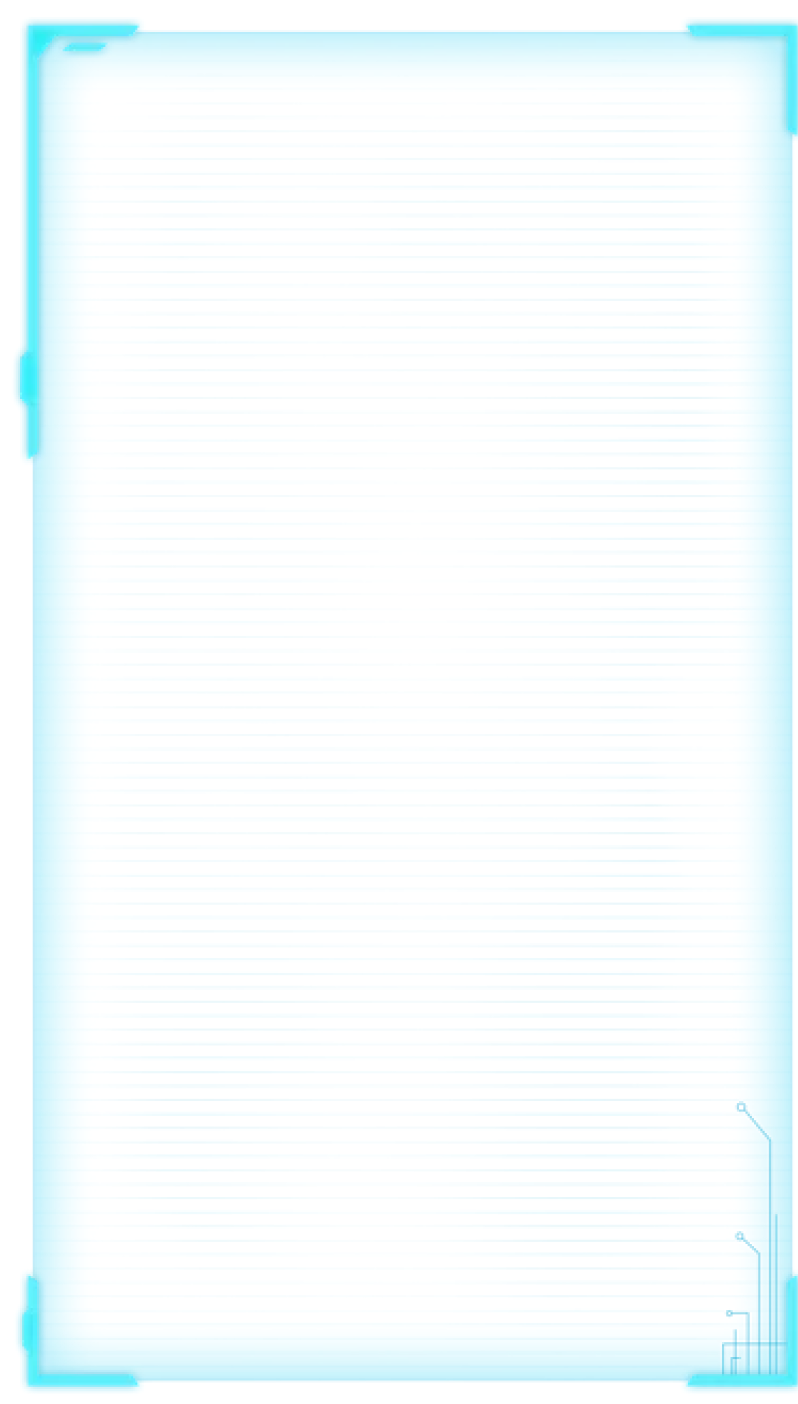
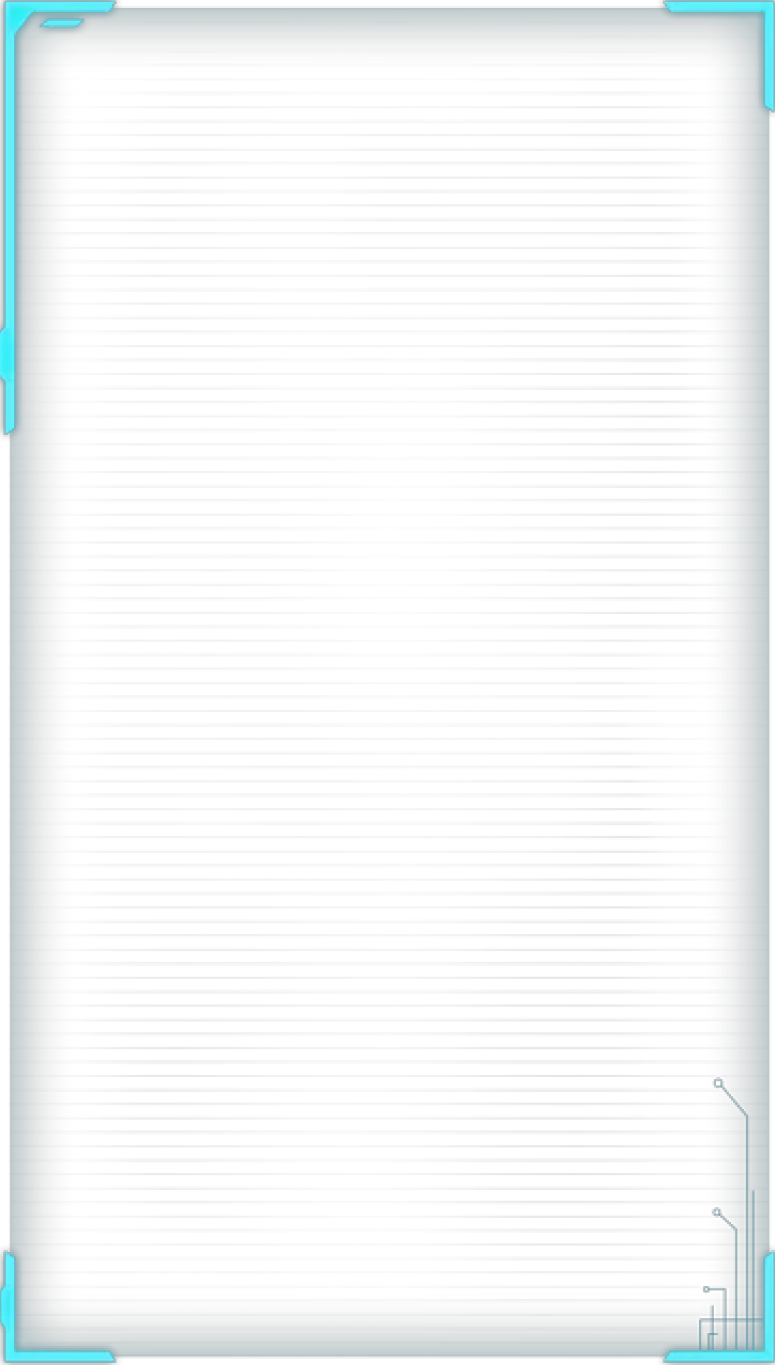
开发：背景图设置完成

Changed region(s): [[0.0, 0.0, 1.0, 1.0]]

diff --git a/src/components/mapView/MapRecommand.vue b/src/components/mapView/MapRecommand.vue
@@ -2,7 +2,7 @@
   <div class="map-recommand">
     <div class="content">
       <el-tabs type="border-card">
-        <el-tab-pane label="用户管理">用户管理</el-tab-pane>
+        <el-tab-pane label="用户管理">管理</el-tab-pane>
         <el-tab-pane label="配置管理">配置管理</el-tab-pane>
         <el-tab-pane label="角色管理">角色管理</el-tab-pane>
         <el-tab-pane label="定时任务补偿">定时任务补偿</el-tab-pane>
@@ -30,11 +30,14 @@ export default {
 .map-recommand {
   width: 35%;
   height: 100%;
-  background-color: rgb(18, 36, 70);
   .content {
-    padding: 10px;
+    padding: 30px;
     width: 100%;
     height: 100%;
+    background: rgb(18, 36, 70) url('~@/assets/images/recommend_bg.png')
+      no-repeat;
+    background-size: 98% 98%;
+    background-position: center;
   }
 }
 </style>
